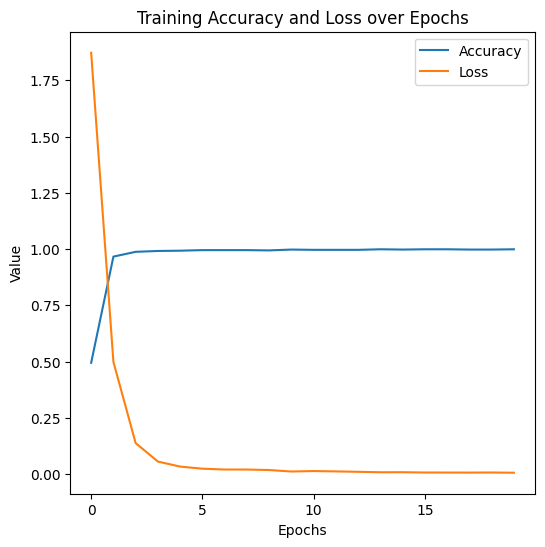
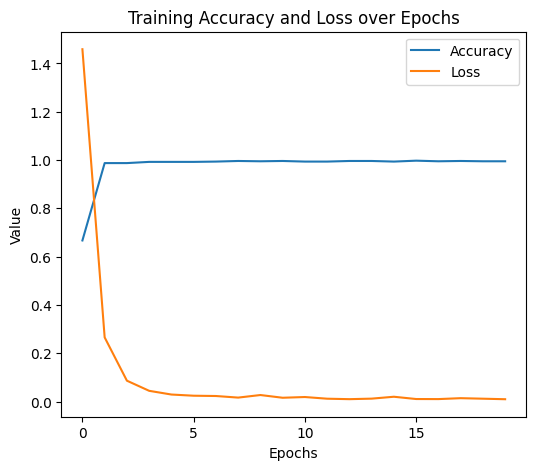
title

Changed region(s): [[0.0, 0.0, 0.9851, 0.983]]

diff --git a/templates/index.html b/templates/index.html
@@ -1,7 +1,7 @@
 <!DOCTYPE html>
 <html>
     <head>
-        <title>ML Audio Genre Classifier</title>
+        <title>ML Music Genre Classifier</title>
         <link rel="shortcut icon" type="image/x-icon" href="../static/favicon.ico" />
     </head>
     <style>

diff --git a/dnn.py b/dnn.py
@@ -60,7 +60,7 @@ accuracy = np.sum(predicted_classes == true_classes) / len(true_classes)
 print (f"accuracy: {accuracy}")
 
 # Plot training accuracy and loss over epochs
-plt.figure(figsize=(6, 6))
+plt.figure(figsize=(6, 5))
 
 plt.plot(history.history['accuracy'], label='Accuracy')
 plt.plot(history.history['loss'], label='Loss')
